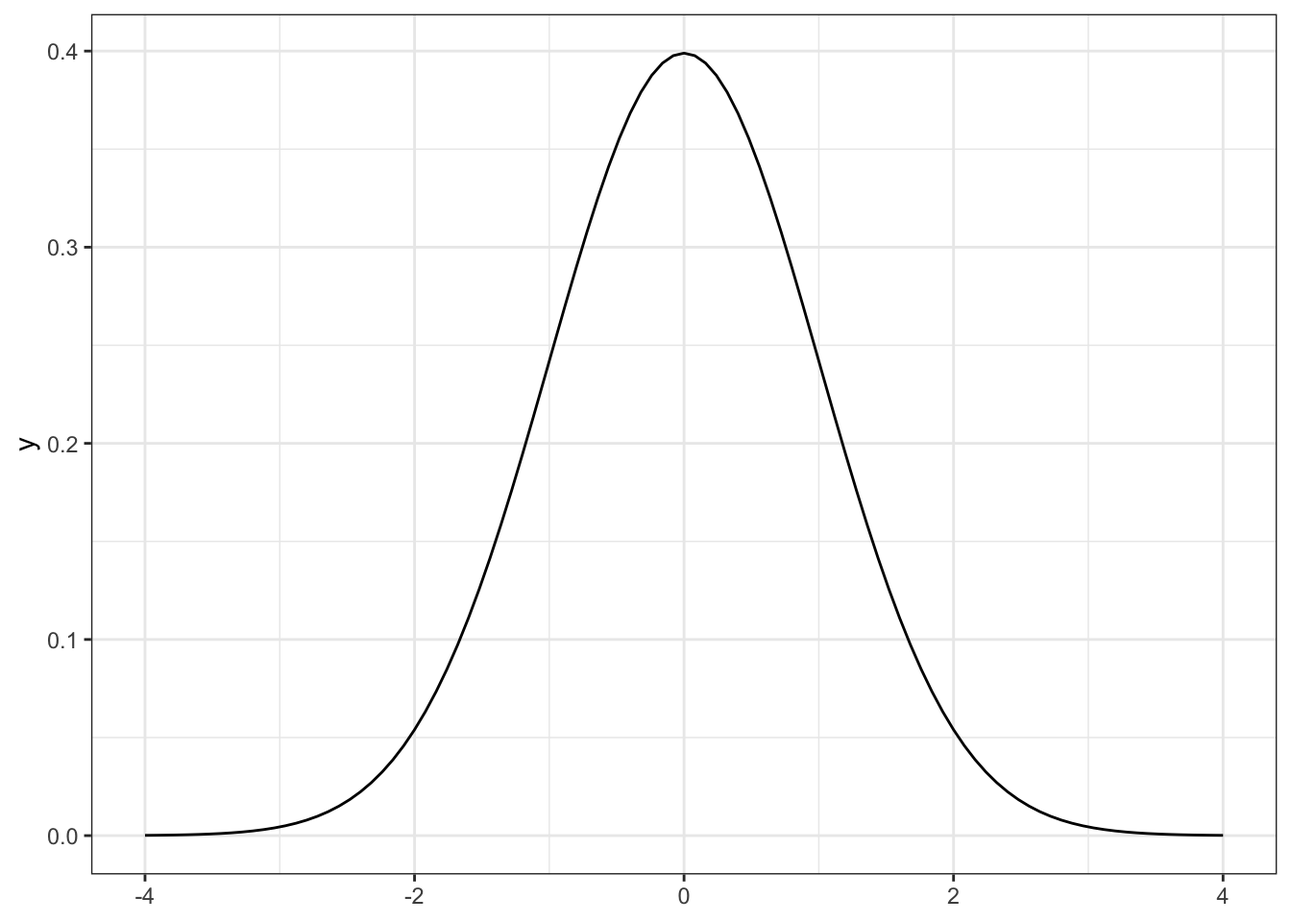
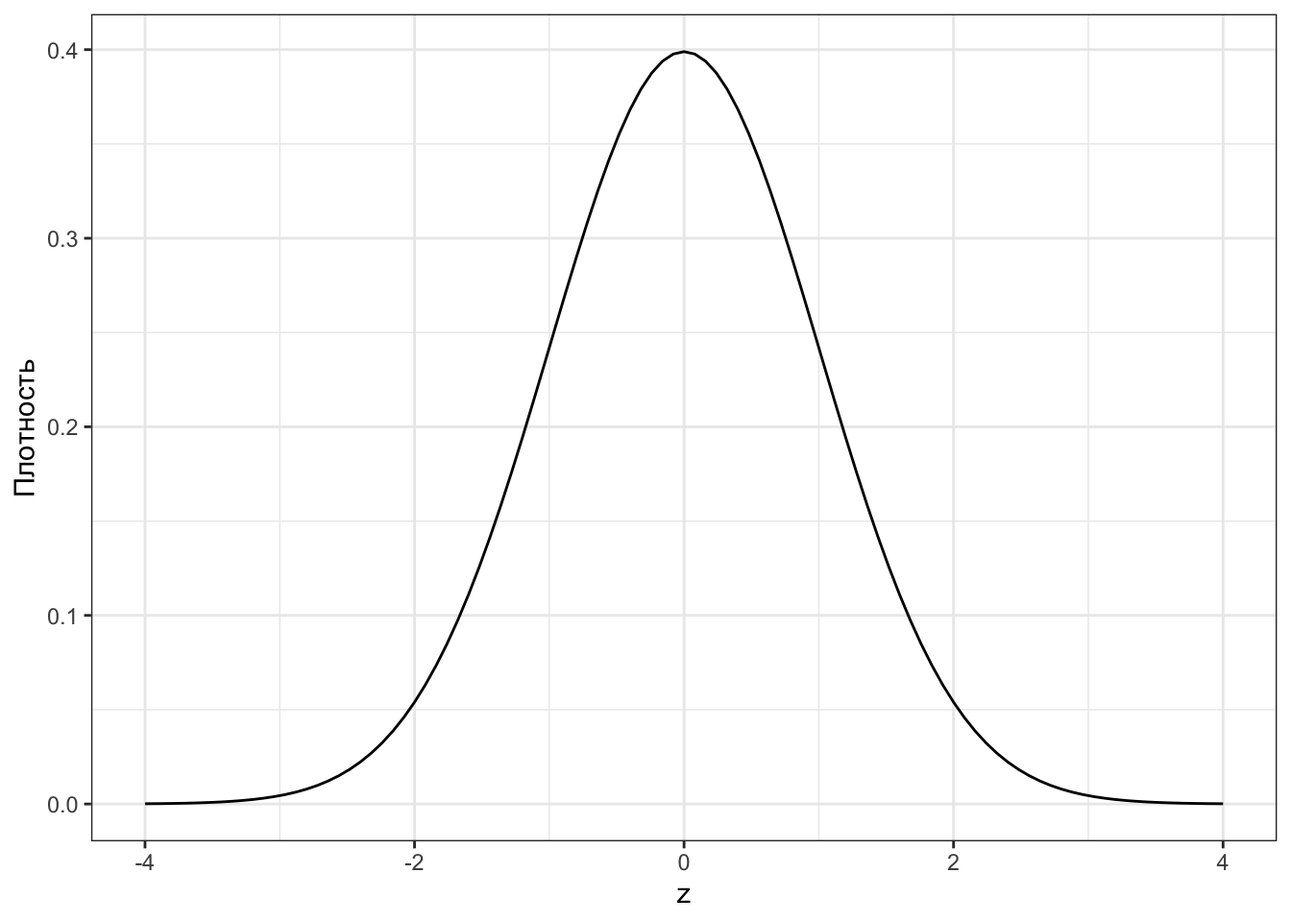
working on NHST algorithm

diff --git a/docs/infer-stattesting.html b/docs/infer-stattesting.html
@@ -233,17 +233,17 @@ window.Quarto = {
     <h2 id="toc-title">Содержание</h2>
    
   <ul>
-  <li><a href="#базовые-понятия" id="toc-базовые-понятия" class="nav-link active" data-scroll-target="#базовые-понятия"><span class="header-section-number">7.1</span> Базовые понятия</a></li>
-  <li><a href="#возможные-результаты-проверки-гипотез" id="toc-возможные-результаты-проверки-гипотез" class="nav-link" data-scroll-target="#возможные-результаты-проверки-гипотез"><span class="header-section-number">7.2</span> Возможные результаты проверки гипотез</a></li>
-  <li><a href="#алгоритм-тестирования-статистических-гипотез" id="toc-алгоритм-тестирования-статистических-гипотез" class="nav-link" data-scroll-target="#алгоритм-тестирования-статистических-гипотез"><span class="header-section-number">7.3</span> Алгоритм тестирования статистических гипотез</a>
+  <li><a href="#stattesting-basics" id="toc-stattesting-basics" class="nav-link active" data-scroll-target="#stattesting-basics"><span class="header-section-number">7.1</span> Базовые понятия</a></li>
+  <li><a href="#stattesting-results" id="toc-stattesting-results" class="nav-link" data-scroll-target="#stattesting-results"><span class="header-section-number">7.2</span> Возможные результаты проверки гипотез</a></li>
+  <li><a href="#stattesting-algorithm" id="toc-stattesting-algorithm" class="nav-link" data-scroll-target="#stattesting-algorithm"><span class="header-section-number">7.3</span> Алгоритм тестирования статистических гипотез</a>
   <ul class="collapse">
-  <li><a href="#формулировка-гипотезы" id="toc-формулировка-гипотезы" class="nav-link" data-scroll-target="#формулировка-гипотезы"><span class="header-section-number">7.3.1</span> Формулировка гипотезы</a></li>
-  <li><a href="#выбор-статистического-критерия" id="toc-выбор-статистического-критерия" class="nav-link" data-scroll-target="#выбор-статистического-критерия"><span class="header-section-number">7.3.2</span> Выбор статистического критерия</a></li>
-  <li><a href="#выбор-уровня-значимости" id="toc-выбор-уровня-значимости" class="nav-link" data-scroll-target="#выбор-уровня-значимости"><span class="header-section-number">7.3.3</span> Выбор уровня значимости</a></li>
-  <li><a href="#расчёт-выборочной-статистики" id="toc-расчёт-выборочной-статистики" class="nav-link" data-scroll-target="#расчёт-выборочной-статистики"><span class="header-section-number">7.3.4</span> Расчёт выборочной статистики</a></li>
-  <li><a href="#распределение-статистики" id="toc-распределение-статистики" class="nav-link" data-scroll-target="#распределение-статистики"><span class="header-section-number">7.3.5</span> Распределение статистики</a></li>
-  <li><a href="#критическая-область-vs-p-value" id="toc-критическая-область-vs-p-value" class="nav-link" data-scroll-target="#критическая-область-vs-p-value"><span class="header-section-number">7.3.6</span> Критическая область vs p-value</a></li>
-  <li><a href="#статистический-вывод" id="toc-статистический-вывод" class="nav-link" data-scroll-target="#статистический-вывод"><span class="header-section-number">7.3.7</span> Статистический вывод</a></li>
+  <li><a href="#stattesting-hyp-formulation" id="toc-stattesting-hyp-formulation" class="nav-link" data-scroll-target="#stattesting-hyp-formulation"><span class="header-section-number">7.3.1</span> Формулировка гипотезы</a></li>
+  <li><a href="#stattesting-method-choice" id="toc-stattesting-method-choice" class="nav-link" data-scroll-target="#stattesting-method-choice"><span class="header-section-number">7.3.2</span> Выбор статистического критерия</a></li>
+  <li><a href="#stattesting-siglevel-choice" id="toc-stattesting-siglevel-choice" class="nav-link" data-scroll-target="#stattesting-siglevel-choice"><span class="header-section-number">7.3.3</span> Выбор уровня значимости</a></li>
+  <li><a href="#stattesting-stat-observe" id="toc-stattesting-stat-observe" class="nav-link" data-scroll-target="#stattesting-stat-observe"><span class="header-section-number">7.3.4</span> Расчёт выборочной статистики</a></li>
+  <li><a href="#stattesting-stat-distribution" id="toc-stattesting-stat-distribution" class="nav-link" data-scroll-target="#stattesting-stat-distribution"><span class="header-section-number">7.3.5</span> Распределение статистики</a></li>
+  <li><a href="#stattesting-pval" id="toc-stattesting-pval" class="nav-link" data-scroll-target="#stattesting-pval"><span class="header-section-number">7.3.6</span> Критическая область vs p-value</a></li>
+  <li><a href="#stattesting-statinf" id="toc-stattesting-statinf" class="nav-link" data-scroll-target="#stattesting-statinf"><span class="header-section-number">7.3.7</span> Статистический вывод</a></li>
   </ul></li>
   </ul>
 </nav>
@@ -253,7 +253,7 @@ window.Quarto = {
 
 <header id="title-block-header" class="quarto-title-block default"><nav class="quarto-page-breadcrumbs quarto-title-breadcrumbs d-none d-lg-block" aria-label="breadcrumb"><ol class="breadcrumb"><li class="breadcrumb-item"><a href="./infer-stattesting.html">Статистика вывода</a></li><li class="breadcrumb-item"><a href="./infer-stattesting.html"><span class="chapter-number">7</span>&nbsp; <span class="chapter-title">Тестирование статистических гипотез</span></a></li></ol></nav>
 <div class="quarto-title">
-<h1 class="title"><span class="chapter-number">7</span>&nbsp; <span class="chapter-title">Тестирование статистических гипотез</span></h1>
+<h1 class="title"><span id="infer-stattesting" class="quarto-section-identifier"><span class="chapter-number">7</span>&nbsp; <span class="chapter-title">Тестирование статистических гипотез</span></span></h1>
 </div>
 
 
@@ -277,8 +277,8 @@ window.Quarto = {
 <li>Хороша&nbsp;ли та модель, которую мы построили? → Отличается&nbsp;ли она от&nbsp;нулевой модели?</li>
 </ul>
 <p>И&nbsp;так далее. Так или иначе, всё сводится к&nbsp;тому, что&nbsp;мы ищем какие-то различия. Но&nbsp;силу того, что у&nbsp;нас неопределённость и&nbsp;вариативность в&nbsp;данных, мы просто так «в&nbsp;лоб» сказать о&nbsp;различиях по&nbsp;оценкам параметров не&nbsp;можем. Приходится тестировать статистические гипотезы.</p>
-<section id="базовые-понятия" class="level2" data-number="7.1">
-<h2 data-number="7.1" class="anchored" data-anchor-id="базовые-понятия"><span class="header-section-number">7.1</span> Базовые понятия</h2>
+<section id="stattesting-basics" class="level2" data-number="7.1">
+<h2 data-number="7.1" class="anchored" data-anchor-id="stattesting-basics"><span class="header-section-number">7.1</span> Базовые понятия</h2>
 <div id="def-hepothesis" class="theorem definition">
 <p><span class="theorem-title"><strong>Определение 7.1</strong></span> <strong>Гипотеза</strong> (<span class="math inline">\(H\)</span>)&nbsp;— это предположение, которое подлежит проверке на&nbsp;основе результатов наблюдений.</p>
 </div>
@@ -316,8 +316,8 @@ window.Quarto = {
 --->
 <p>Что&nbsp;же может случиться в&nbsp;ходе проверки статистической гипотезы?</p>
 </section>
-<section id="возможные-результаты-проверки-гипотез" class="level2" data-number="7.2">
-<h2 data-number="7.2" class="anchored" data-anchor-id="возможные-результаты-проверки-гипотез"><span class="header-section-number">7.2</span> Возможные результаты проверки гипотез</h2>
+<section id="stattesting-results" class="level2" data-number="7.2">
+<h2 data-number="7.2" class="anchored" data-anchor-id="stattesting-results"><span class="header-section-number">7.2</span> Возможные результаты проверки гипотез</h2>
 <p>Мы изучаем в&nbsp;исследовании какую-либо закономерность, которая в&nbsp;реальном мире <em>может существовать</em>, а&nbsp;может и&nbsp;не&nbsp;существовать. В&nbsp;силу неопределённости и&nbsp;вариативности наших данных мы может либо <em>обнаружить интересующую нас закономерность</em>, либо <em>не&nbsp;обнаружить её</em>.</p>
 <p>В&nbsp;качестве нулевой гипотезы мы выдвигаем предположение о&nbsp;том, что&nbsp;закономерность отсутствует&nbsp;— так мы упрощаем нашу нулевую гипотезу. Пусть <span class="math inline">\(H_0\)</span> обозначает, что&nbsp;предположение об&nbsp;отсутствии закономерности, которое мы проверяем справедливо, а&nbsp;<span class="math inline">\(H_1\)</span>&nbsp;— не справедливо. На&nbsp;основании данных мы можем либо не&nbsp;отклонить наше предположение (<span class="math inline">\(\hat H_0\)</span>), либо&nbsp;отклонить (<span class="math inline">\(\hat H_1\)</span>).</p>
 <p>Тогда имеем следующую ситуацию (<a href="#tbl-stattesting-results" class="quarto-xref">Таблица&nbsp;<span>7.1</span></a>).</p>
@@ -520,8 +520,8 @@ H
 Посмотреть, как все эти штуки друг с другом соотносятся можно тут.
 --->
 </section>
-<section id="алгоритм-тестирования-статистических-гипотез" class="level2" data-number="7.3">
-<h2 data-number="7.3" class="anchored" data-anchor-id="алгоритм-тестирования-статистических-гипотез"><span class="header-section-number">7.3</span> Алгоритм тестирования статистических гипотез</h2>
+<section id="stattesting-algorithm" class="level2" data-number="7.3">
+<h2 data-number="7.3" class="anchored" data-anchor-id="stattesting-algorithm"><span class="header-section-number">7.3</span> Алгоритм тестирования статистических гипотез</h2>
 <p>Для тестирования гипотез есть два сценария: первый и тот, которым мы будем пользоваться. Первый вариант чуть более классический, второй&nbsp;— более гибкий.</p>
 <div class="callout callout-style-default callout-tip callout-titled">
 <div class="callout-header d-flex align-content-center">
@@ -619,8 +619,8 @@ H
 <li><strong>Эмпирическая</strong>: балл по шкале «Открытость к&nbsp;опыту» отличается от&nbsp;среднего значения по&nbsp;данной шкале.</li>
 </ul>
 <p>Теоретические и&nbsp;эмпирические гипотезы не&nbsp;касаются напрямую статистического анализа, так как мы в рамках него заняты тестированием <em>статистических</em> гипотез. Однако поскольку статистические гипотезы должны быть согласованы с&nbsp;эмпирическими, которые, в&nbsp;свою очередь, должны быть согласованы с&nbsp;теоретическими, мы прописали эти весьма незамысловатые гипотезы. Теперь&nbsp;же сформулируем статистические.</p>
-<section id="формулировка-гипотезы" class="level3" data-number="7.3.1">
-<h3 data-number="7.3.1" class="anchored" data-anchor-id="формулировка-гипотезы"><span class="header-section-number">7.3.1</span> Формулировка гипотезы</h3>
+<section id="stattesting-hyp-formulation" class="level3" data-number="7.3.1">
+<h3 data-number="7.3.1" class="anchored" data-anchor-id="stattesting-hyp-formulation"><span class="header-section-number">7.3.1</span> Формулировка гипотезы</h3>
 <p>Для&nbsp;обозначенной эмпирической гипотезы подойдут следующие статистические:</p>
 <p><span class="math display">\[
 \begin{aligned}
@@ -630,21 +630,46 @@ H_1&amp;: \mu \neq 50
 \]</span></p>
 <p>В&nbsp;формулировке гипотезы фигурирует <span class="math inline">\(\mu\)</span> — так обозначается среднее генеральной совокупности. Действительно, как мы отмечали в&nbsp;начале главы, статистические гипотезы формулируются в&nbsp;терминах параметров генеральной совокупности. И действительно, как мы говорили в&nbsp;первой главе, мы хотели&nbsp;бы изучать всех студентов того или иного факультета, но&nbsp;в&nbsp;силу ограниченности ресурсов работаем с&nbsp;выборкой. Может показаться, что&nbsp;проверяя гипотезу «балл по шкале “Открытость к&nbsp;опыту” отличается от&nbsp;среднего значения по&nbsp;данной шкале», мы должны сравнивать балл каждого респондента со&nbsp;средним, но&nbsp;это, конечно же, не&nbsp;так, поскольку нас интересует, отличается&nbsp;ли <em>в&nbsp;среднем</em> балл респондентов от&nbsp;среднего по&nbsp;шкале — в&nbsp;данном случае 50. Балл каждого отдельного респондента отличаться от&nbsp;50, безусловно, будет<a href="#fn3" class="footnote-ref" id="fnref3" role="doc-noteref"><sup>3</sup></a> ввиду неопределенности и&nbsp;вариативности данных.</p>
 </section>
-<section id="выбор-статистического-критерия" class="level3" data-number="7.3.2">
-<h3 data-number="7.3.2" class="anchored" data-anchor-id="выбор-статистического-критерия"><span class="header-section-number">7.3.2</span> Выбор статистического критерия</h3>
-<p>Теперь необходимо подобраться статистический критерий для&nbsp;проверки заявленных статистических гипотез.</p>
-<p><span class="math display">\[
+<section id="stattesting-method-choice" class="level3" data-number="7.3.2">
+<h3 data-number="7.3.2" class="anchored" data-anchor-id="stattesting-method-choice"><span class="header-section-number">7.3.2</span> Выбор статистического критерия</h3>
+<p>Теперь необходимо подобраться статистический критерий для&nbsp;проверки заявленных статистических гипотез. Здесь может возникнуть вопрос&nbsp;— зачем нам в&nbsp;принципе какой-то статистический критерий? Ведь у&nbsp;нас есть выборочные средние (см.&nbsp;табл. <a href="#tbl-z-means" class="quarto-xref"><span>7.3</span></a>) и&nbsp;число, с&nbsp;которым нам необходимо эти средние сравнить&nbsp;— в&nbsp;данном случае <span class="math inline">\(50\)</span>. Скажем, для&nbsp;факультета <span class="math inline">\(A\)</span> мы имеем средний балл <span class="math inline">\(51\)</span>, а&nbsp;для&nbsp;факультета <span class="math inline">\(B\)</span> — <span class="math inline">\(53\)</span>: ясно&nbsp;же, что <span class="math inline">\(51 \neq 50\)</span> и&nbsp;<span class="math inline">\(53 \neq 50\)</span>. Почему мы не&nbsp;можем вывод просто вот так?</p>
+<p>Вновь нам необходимо вспомнить, что&nbsp;ввиду неопределенности и&nbsp;вариативности статистических данных мы могли <em>случайно</em> получить наблюдаемые абсолютные различия между средним и&nbsp;заданным значением. Вполне возможно, что&nbsp;в&nbsp;генеральной совокупности среднее на&nbsp;самом деле <span class="math inline">\(50\)</span>, однако из-за случайных ошибок в&nbsp;ходе измерения или&nbsp;формирования выборки, полученное <span class="math inline">\(51\)</span> не&nbsp;будет статистически отличаться от&nbsp;<span class="math inline">\(50\)</span>. Для&nbsp;того, чтобы проверить, насколько имеющиеся отклонения <em>неслучайны</em> и&nbsp;необходим статистический критерий.</p>
+<p>Для&nbsp;проверки разных статистических гипотез будут использоваться разные статистические критерии, с&nbsp;которым мы будем постепенно знакомиться далее. Для&nbsp;проверки нашей гипотезы о&nbsp;равенстве среднего некоторому заданному значению подойдет <strong>z-тест</strong>.</p>
+<p>Любой статистический критерий, по&nbsp;сути, является собой некоторую формулу, которая позволяет получить <strong>значение статистики критерия</strong>. В&nbsp;случае z-теста это будет формула для получения z-значения.</p>
+<div class="callout callout-style-simple callout-important no-icon">
+<div class="callout-body d-flex">
+<div class="callout-icon-container">
+<i class="callout-icon no-icon"></i>
+</div>
+<div class="callout-body-container">
+<p>Это <strong>не&nbsp;то&nbsp;же</strong> z-значение, которое мы получали в&nbsp;результате <a href="desc-normdist.html#normdist-stand">стандартизации</a> случайной величины. Оно считается иначе.</p>
+</div>
+</div>
+</div>
+<p>Формула расчёта статистики z-теста такова:</p>
+<p><span id="eq-z-test"><span class="math display">\[
 z = \frac{\overline X - \mu_0}{\text{se}_X}
-= \frac{\overline X - \mu_0}{\dfrac{\sigma_X}{\sqrt{n}}}
-\]</span></p>
+= \frac{\overline X - \mu_0}{\dfrac{\sigma_X}{\sqrt{n}}},
+\tag{7.1}\]</span></span></p>
+<p>где <span class="math inline">\(\overline X\)</span> — выборочное среднее (оценка среднего генеральной совокупности), <span class="math inline">\(\mu_0\)</span> — некоторое заданное значение, с&nbsp;которым необходимо сравнить среднее, <span class="math inline">\(\text{se}_X\)</span> — стандартная ошибка случайной величины <span class="math inline">\(X\)</span> (см. <a href="desc-ci.html#ci-se">соответствующий раздел</a>), <span class="math inline">\(\sigma_X\)</span> — дисперсия случайной величины <span class="math inline">\(X\)</span>, <span class="math inline">\(n\)</span> — количество наблюдений в&nbsp;выборке.</p>
 </section>
-<section id="выбор-уровня-значимости" class="level3" data-number="7.3.3">
-<h3 data-number="7.3.3" class="anchored" data-anchor-id="выбор-уровня-значимости"><span class="header-section-number">7.3.3</span> Выбор уровня значимости</h3>
-<p>Здесь мы воспользуемся конвенциональным значением: <span class="math inline">\(\alpha = 0.05\)</span>.</p>
+<section id="stattesting-siglevel-choice" class="level3" data-number="7.3.3">
+<h3 data-number="7.3.3" class="anchored" data-anchor-id="stattesting-siglevel-choice"><span class="header-section-number">7.3.3</span> Выбор уровня значимости</h3>
+<p>Здесь мы воспользуемся конвенциональным значением: <span class="math inline">\(\alpha = 0.05\)</span>. Вообще вы можете выбрать и&nbsp;более низкое значение в&nbsp;рамках собственного исследования.</p>
+<div class="callout callout-style-simple callout-tip">
+<div class="callout-body d-flex">
+<div class="callout-icon-container">
+<i class="callout-icon"></i>
+</div>
+<div class="callout-body-container">
+<p>Все вышепройденные шаги алгоритма тестирования гипотез в&nbsp;ситуации реального исследования должны быть выполнены до&nbsp;начала сбора данных при&nbsp;планировании исследования.</p>
+</div>
+</div>
+</div>
 </section>
-<section id="расчёт-выборочной-статистики" class="level3" data-number="7.3.4">
-<h3 data-number="7.3.4" class="anchored" data-anchor-id="расчёт-выборочной-статистики"><span class="header-section-number">7.3.4</span> Расчёт выборочной статистики</h3>
-<p>Вспомним таблицу <a href="#tbl-z-means" class="quarto-xref"><span>7.3</span></a></p>
+<section id="stattesting-stat-observe" class="level3" data-number="7.3.4">
+<h3 data-number="7.3.4" class="anchored" data-anchor-id="stattesting-stat-observe"><span class="header-section-number">7.3.4</span> Расчёт выборочной статистики</h3>
+<p>Теперь обратимся к&nbsp;имеющимся у&nbsp;нас данным (<a href="#tbl-z-means" class="quarto-xref">Таблица&nbsp;<span>7.3</span></a>) и&nbsp;рассчитаем наблюдаемое значение z-статистики для&nbsp;каждой из&nbsp;выборок, используя формулу <a href="#eq-z-test" class="quarto-xref"><span>7.1</span></a>.</p>
 <p><span class="math display">\[
 \begin{aligned}
 z_A = \frac{51 - 50}{10/\sqrt{50}} \approx 0.707 \\
@@ -653,9 +678,20 @@ z_C = \frac{47 - 50}{10/\sqrt{50}} \approx -2.121 \\
 z_D = \frac{47 - 50}{10/\sqrt{30}} \approx -1.643 \\
 \end{aligned}
 \]</span></p>
+<p>Итак, мы получили четыре z-значения для&nbsp;факультетов A, B, C и&nbsp;D. Здесь возникает вполне закономерный вопрос&nbsp;— и&nbsp;чо?</p>
 </section>
-<section id="распределение-статистики" class="level3" data-number="7.3.5">
-<h3 data-number="7.3.5" class="anchored" data-anchor-id="распределение-статистики"><span class="header-section-number">7.3.5</span> Распределение статистики</h3>
+<section id="stattesting-stat-distribution" class="level3" data-number="7.3.5">
+<h3 data-number="7.3.5" class="anchored" data-anchor-id="stattesting-stat-distribution"><span class="header-section-number">7.3.5</span> Распределение статистики</h3>
+<p>Нам необходимо сделать вывод об&nbsp;отсутствии или&nbsp;наличии закономерности&nbsp;— такова была изначальная задача. Мы получили наблюдаемые значения z-статистики&nbsp;— видимо, нам необходимо сделать вывод на&nbsp;их основе.</p>
+<p>Ясно, что <strong>z-статистика&nbsp;— это случайная величина</strong>. Если посмотреть на&nbsp;формулу её расчёта (<a href="#eq-z-test" class="quarto-xref"><span>7.1</span></a>), то&nbsp;можно заметить, что&nbsp;её значение зависит от&nbsp;выборочного среднего. Выборочное среднее&nbsp;же само является случайной величиной, так как зависит от&nbsp;того, какие значения попадут в&nbsp;выборку, а&nbsp;формирование выборки случайно.</p>
+<p>Если z-статистика есть случайная величина, то&nbsp;у&nbsp;неё должно быть какое-то распределение, как и&nbsp;у&nbsp;любой случайной величины. И&nbsp;действительно, z-статистика при&nbsp;справедливости нулевой гипотезы подчиняется стандартному нормальному распределению (<a href="#fig-z-h0" class="quarto-xref">Рисунок&nbsp;<span>7.1</span></a>):</p>
+<p><span class="math display">\[
+z \overset{H_0}{\thicksim } \mathcal{N}(0, 1)
+\]</span></p>
+<p>Собственно, именно поэтому она и&nbsp;является z-статистикой, так как с&nbsp;помощью буквы <span class="math inline">\(z\)</span> в статистике обычно обозначается стандартно нормально распределённая случайная величина.</p>
+<div id="fig-z-h0" class="quarto-float quarto-figure quarto-figure-center anchored">
+<figure class="quarto-float quarto-float-fig figure">
+<div aria-describedby="fig-z-h0-caption-0ceaefa1-69ba-4598-a22c-09a6ac19f8ca">
 <div class="cell">
 <div class="cell-output-display">
 <div>
@@ -665,9 +701,15 @@ z_D = \frac{47 - 50}{10/\sqrt{30}} \approx -1.643 \\
 </div>
 </div>
 </div>
+</div>
+<figcaption class="quarto-float-caption-bottom quarto-float-caption quarto-float-fig" id="fig-z-h0-caption-0ceaefa1-69ba-4598-a22c-09a6ac19f8ca">
+Рисунок&nbsp;7.1: Распределение z-статистики при&nbsp;справедливости нулевой гипотезы
+</figcaption>
+</figure>
+</div>
 </section>
-<section id="критическая-область-vs-p-value" class="level3" data-number="7.3.6">
-<h3 data-number="7.3.6" class="anchored" data-anchor-id="критическая-область-vs-p-value"><span class="header-section-number">7.3.6</span> Критическая область vs p-value</h3>
+<section id="stattesting-pval" class="level3" data-number="7.3.6">
+<h3 data-number="7.3.6" class="anchored" data-anchor-id="stattesting-pval"><span class="header-section-number">7.3.6</span> Критическая область vs p-value</h3>
 <div class="cell">
 <div class="cell-output-display">
 <div>
@@ -714,8 +756,8 @@ z_D = \frac{47 - 50}{10/\sqrt{30}} \approx -1.643 \\
 </div>
 </div>
 </section>
-<section id="статистический-вывод" class="level3" data-number="7.3.7">
-<h3 data-number="7.3.7" class="anchored" data-anchor-id="статистический-вывод"><span class="header-section-number">7.3.7</span> Статистический вывод</h3>
+<section id="stattesting-statinf" class="level3" data-number="7.3.7">
+<h3 data-number="7.3.7" class="anchored" data-anchor-id="stattesting-statinf"><span class="header-section-number">7.3.7</span> Статистический вывод</h3>
 <!---
 Почему второй вариант более гибкий? Представим, что мы захотели понизить уровень значимости с $0.05$ до $0.01$ --- такие уровни значимости всречаются, например, в медицине. Если мы идем по первому сценарию, то нам надо заново пересчитать критические значения и вновь проанализировать, попадает ли наблюдаемое значение в критическую область. Если мы адепты второго сценария, то нам надо только выполнить одно новое сравнение нашего p-value с новым уровнем значимости.
 --->

diff --git a/docs/desc-ci.html b/docs/desc-ci.html
@@ -30,6 +30,7 @@ ul.task-list li input[type="checkbox"] {
 <script src="site_libs/quarto-search/fuse.min.js"></script>
 <script src="site_libs/quarto-search/quarto-search.js"></script>
 <meta name="quarto:offset" content="./">
+<link href="./infer-stattesting.html" rel="next">
 <link href="./desc-normdist.html" rel="prev">
 <script src="site_libs/quarto-html/quarto.js" type="module"></script>
 <script src="site_libs/quarto-html/tabsets/tabsets.js" type="module"></script>
@@ -199,6 +200,29 @@ window.Quarto = {
 </li>
       </ul>
   </li>
+        <li class="sidebar-item sidebar-item-section">
+      <div class="sidebar-item-container"> 
+            <a class="sidebar-item-text sidebar-link text-start" data-bs-toggle="collapse" data-bs-target="#quarto-sidebar-section-3" role="navigation" aria-expanded="true">
+ <span class="menu-text">Статистика вывода</span></a>
+          <a class="sidebar-item-toggle text-start" data-bs-toggle="collapse" data-bs-target="#quarto-sidebar-section-3" role="navigation" aria-expanded="true" aria-label="Toggle section">
+            <i class="bi bi-chevron-right ms-2"></i>
+          </a> 
+      </div>
+      <ul id="quarto-sidebar-section-3" class="collapse list-unstyled sidebar-section depth1 show">  
+          <li class="sidebar-item">
+  <div class="sidebar-item-container"> 
+  <a href="./infer-stattesting.html" class="sidebar-item-text sidebar-link">
+ <span class="menu-text"><span class="chapter-number">7</span>&nbsp; <span class="chapter-title">Тестирование статистических гипотез</span></span></a>
+  </div>
+</li>
+          <li class="sidebar-item">
+  <div class="sidebar-item-container"> 
+  <a href="./infer-correlation.html" class="sidebar-item-text sidebar-link">
+ <span class="menu-text"><span class="chapter-number">8</span>&nbsp; <span class="chapter-title">Корреляционный анализ</span></span></a>
+  </div>
+</li>
+      </ul>
+  </li>
     </ul>
     </div>
 </nav>
@@ -226,7 +250,7 @@ window.Quarto = {
 
 <header id="title-block-header" class="quarto-title-block default"><nav class="quarto-page-breadcrumbs quarto-title-breadcrumbs d-none d-lg-block" aria-label="breadcrumb"><ol class="breadcrumb"><li class="breadcrumb-item"><a href="./desc-centraltend.html">Описательная статистика</a></li><li class="breadcrumb-item"><a href="./desc-ci.html"><span class="chapter-number">6</span>&nbsp; <span class="chapter-title">Доверительные интервалы</span></a></li></ol></nav>
 <div class="quarto-title">
-<h1 class="title"><span class="chapter-number">6</span>&nbsp; <span class="chapter-title">Доверительные интервалы</span></h1>
+<h1 class="title"><span id="desc-ci" class="quarto-section-identifier"><span class="chapter-number">6</span>&nbsp; <span class="chapter-title">Доверительные интервалы</span></span></h1>
 </div>
 
 
@@ -1285,6 +1309,9 @@ x_i = z_i \cdot s_x + \overline X,
       </a>          
   </div>
   <div class="nav-page nav-page-next">
+      <a href="./infer-stattesting.html" class="pagination-link" aria-label="Тестирование статистических гипотез">
+        <span class="nav-page-text"><span class="chapter-number">7</span>&nbsp; <span class="chapter-title">Тестирование статистических гипотез</span></span> <i class="bi bi-arrow-right-short"></i>
+      </a>
   </div>
 </nav>
 </div> <!-- /content -->
